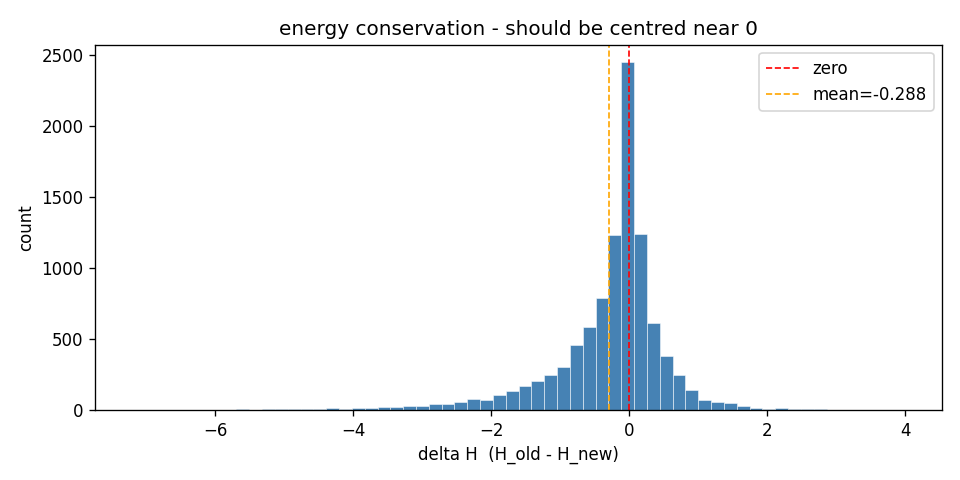
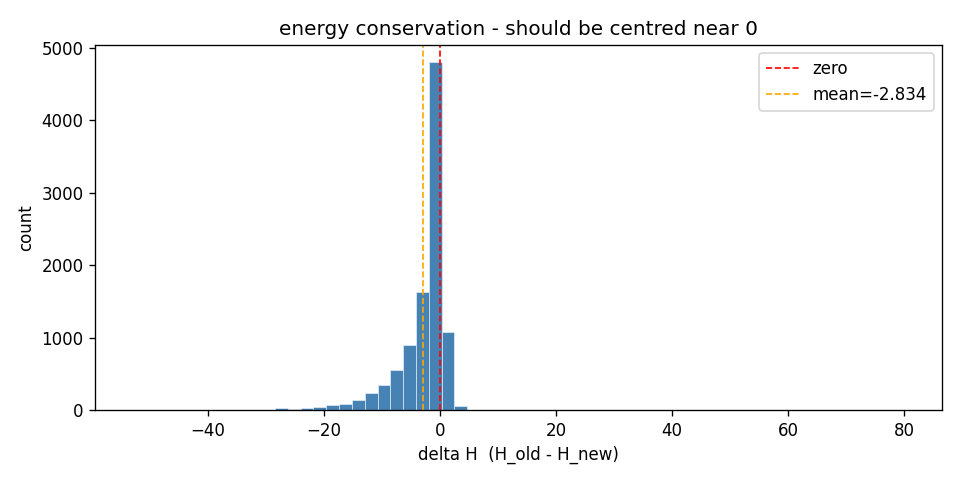
implemented rul prediction - works but it's doo doo

diff --git a/02_preprocessing.py b/02_preprocessing.py
@@ -2,68 +2,79 @@ import numpy as np
 import matplotlib.pyplot as plt
 import os
 
-#sanity check: load the data, filter to one engine, normalise s11, and plot before/after normalisation, just for s11 on engine 1 for now.
-
-data_path = "CMAPSSData/train_FD001.txt"
-
 # change this to switch runs - all outputs go into results/{run_id}/
-run_id   = "E1_S11"
-out_dir  = f"results/{run_id}/figures"
-samp_dir = f"results/{run_id}/samples"
+run_id    = "E10_S11"
+engine_id = 10
+out_dir   = f"results/{run_id}/figures"
+samp_dir  = f"results/{run_id}/samples"
 os.makedirs(out_dir,  exist_ok=True)
 os.makedirs(samp_dir, exist_ok=True)
 
 # col layout: unit(0), cycle(1), os1-3(2-4), s1(5), s2(6) ... s11(15) ... s21(25)
-data = np.loadtxt(data_path)
+train_data = np.loadtxt("CMAPSSData/train_FD001.txt")
+test_data  = np.loadtxt("CMAPSSData/test_FD001.txt")
 
-# --- filter to one engine ---
-# starting with engine 1, sampler only handles one at a time for now
-engine_id = 1
-engine_data = data[data[:, 0] == engine_id]
+# --- fit the normalisation scale on training data (all engines) ---
+# we use global train min/max so the failure threshold (s11=1.0) means the same thing
+# across train and test. if we used per-engine min/max on the test set we wouldnt know
+# where failure actually is since the test trajectories are truncated before failure
+s11_col = 15
+s11_train_all = train_data[:, s11_col]
+s11_min = s11_train_all.min()
+s11_max = s11_train_all.max()
+print(f"s11 normalisation range (from training): min={s11_min:.3f}  max={s11_max:.3f}")
 
-cycles_raw = engine_data[:, 1]    # cycle numbers 1..N
-s11_raw    = engine_data[:, 15]  # s11 is our health proxy (highest corr with cycle)
+# --- filter test set to one engine (truncated before failure - we predict the remaining RUL) ---
+test_engine = test_data[test_data[:, 0] == engine_id]
+cycles_raw  = test_engine[:, 1]
+s11_raw     = test_engine[:, s11_col]
+print(f"engine {engine_id} test trajectory: {len(cycles_raw)} cycles (truncated before failure)")
+print(f"s11 raw — min: {s11_raw.min():.3f}  max: {s11_raw.max():.3f}")
 
-# normalise cycles to [0,1] too - otherwise grad_beta explodes in the sampler
-# (it sums cycle * residual across all steps, cycles up to 192 makes gradients huge)
-cycles = (cycles_raw - cycles_raw.min()) / (cycles_raw.max() - cycles_raw.min())
+# normalise cycles using global max across all training engines
+# this keeps beta on a consistent scale across engines — short and long trajectories
+# comparable, and the prior on beta means the same thing regardless of engine length
+global_max_cycle = train_data[:, 1].max()
+cycles = cycles_raw / global_max_cycle
 
-print(f"engine {engine_id}: {len(cycles_raw)} cycles")
-print(f"s11 raw  — min: {s11_raw.min():.3f}  max: {s11_raw.max():.3f}  mean: {s11_raw.mean():.3f}")
-
-# --- normalise s11 to [0, 1] and flip it ---
-# s11 increases with degradation, but our health model needs h(t) to start near 0 and rise to 1
-# so we just do standard min-max - low s11 (healthy) maps to 0, high s11 (failing) maps to 1
-# RUL formula becomes: t_RUL = (1 - alpha) / beta
-s11_min = s11_raw.min()
-s11_max = s11_raw.max()
+# normalise s11 using the TRAINING min/max
+# so 0 = healthy (global min), 1 = failure threshold (global max from training)
 s11_norm = (s11_raw - s11_min) / (s11_max - s11_min)
 
-print(f"s11 norm — min: {s11_norm.min():.3f}  max: {s11_norm.max():.3f}  mean: {s11_norm.mean():.3f}")
+print(f"s11 norm — min: {s11_norm.min():.3f}  max: {s11_norm.max():.3f}")
+print(f"  (values < 1.0 since engine hasnt failed yet in the test trajectory)")
 
-# --- sanity plot: raw vs normalised ---
+# sanity plot: raw vs normalised
 fig, axes = plt.subplots(1, 2, figsize=(12, 4))
 
-axes[0].plot(cycles, s11_raw)
-axes[0].set_title("s11 raw")
-axes[0].set_xlabel("normalised cycle")
+axes[0].plot(cycles_raw, s11_raw)
+axes[0].set_title("s11 raw (test trajectory)")
+axes[0].set_xlabel("cycle")
 axes[0].set_ylabel("sensor value")
 
-axes[1].plot(cycles, s11_norm)
+axes[1].plot(cycles_raw, s11_norm)
+axes[1].axhline(1.0, color="red", linewidth=0.8, linestyle="--", label="failure threshold")
 axes[1].set_title("s11 normalised [0=healthy, 1=failure]")
-axes[1].set_xlabel("normalised cycle")
+axes[1].set_xlabel("cycle")
 axes[1].set_ylabel("sensor value")
+axes[1].legend(fontsize=8)
 
-fig.suptitle(f"engine {engine_id} - s11 before and after normalisation")
+fig.suptitle(f"engine {engine_id} test trajectory - s11 (truncated before failure)")
 plt.tight_layout()
 out = f"{out_dir}/preprocessing_s11_engine{engine_id}.png"
-
 plt.savefig(out, dpi=120)
 plt.close()
 print(f"saved {out}")
 
-# --- save clean arrays ---
-# these are what 03_hmc_sampler.py will load
+# save clean arrays for the sampler
 np.save(f"{samp_dir}/cycles_engine{engine_id}.npy", cycles)
-np.save(f"{samp_dir}/y_obs_engine{engine_id}.npy", s11_norm)
+np.save(f"{samp_dir}/y_obs_engine{engine_id}.npy",  s11_norm)
+
+# save denormalisation info for 05
+# to go from normalised RUL back to real cycles: rul_real = (t_failure - t_last) * global_max_cycle
+cycle_last_raw = cycles_raw.max()
+np.save(f"{samp_dir}/cycle_last_raw_engine{engine_id}.npy", np.array([cycle_last_raw]))
+np.save(f"{samp_dir}/global_max_cycle.npy", np.array([global_max_cycle]))
+
 print(f"saved cycles and y_obs arrays to {samp_dir}")
+print(f"cycle_last_raw={cycle_last_raw:.0f}  global_max_cycle={global_max_cycle:.0f}")

diff --git a/05_rul_prediction.py b/05_rul_prediction.py
@@ -1,0 +1,75 @@
+import numpy as np
+import matplotlib.pyplot as plt
+import os
+
+# change this to switch runs
+run_id    = "E20_S11"
+engine_id = 20
+samp_dir  = f"results/{run_id}/samples"
+fig_dir   = f"results/{run_id}/figures"
+os.makedirs(fig_dir, exist_ok=True)
+
+samples        = np.load(f"{samp_dir}/hmc_samples_engine{engine_id}.npy")
+global_max_cycle = np.load(f"{samp_dir}/global_max_cycle.npy")[0]
+cycle_last_raw = np.load(f"{samp_dir}/cycle_last_raw_engine{engine_id}.npy")[0]
+
+burn_in  = 1000
+post     = samples[burn_in:]
+alpha_s  = post[:, 0]
+beta_s   = post[:, 1]
+
+t_last = cycle_last_raw / global_max_cycle   # last observed cycle in normalised global coords
+
+print(f"posterior samples (post burn-in): {len(alpha_s)}")
+print(f"cycle_last_raw={cycle_last_raw:.0f}  global_max_cycle={global_max_cycle:.0f}  t_last={t_last:.4f}")
+
+# compute RUL for every posterior sample
+# h(t) = alpha + beta*t, failure when h(t) = failure_threshold
+# t_failure = (threshold - alpha) / beta  in global normalised coords
+# RUL = (t_failure - t_last) * global_max_cycle
+failure_threshold = 0.792  # mean s11_norm at failure across 100 training engines
+rul_norm = (failure_threshold - alpha_s) / beta_s
+rul_real = (rul_norm - t_last) * global_max_cycle
+
+# filter out negative RUL (samples where beta <= 0)
+valid    = rul_real > 0
+print(f"valid RUL samples: {valid.sum()} / {len(rul_real)}")
+rul_real = rul_real[valid]
+
+# true RUL from the label file
+true_rul_all = np.loadtxt("CMAPSSData/RUL_FD001.txt")
+true_rul     = true_rul_all[engine_id - 1]
+
+mean_rul  = rul_real.mean()
+ci_low    = np.percentile(rul_real, 5)
+ci_high   = np.percentile(rul_real, 95)
+
+print(f"\nRUL prediction for engine {engine_id}:")
+print(f"  mean RUL:  {mean_rul:.1f} cycles")
+print(f"  90% CI:    [{ci_low:.1f}, {ci_high:.1f}] cycles")
+print(f"  true RUL:  {true_rul} cycles")
+print(f"  error:     {abs(mean_rul - true_rul):.1f} cycles")
+
+# plot RUL distribution
+fig, ax = plt.subplots(figsize=(10, 5))
+
+ax.hist(rul_real, bins=80, density=True, color="steelblue",
+        edgecolor="white", linewidth=0.3, label="RUL distribution")
+ax.axvline(mean_rul, color="red",    linewidth=1.5, linestyle="--",
+           label=f"mean = {mean_rul:.1f}")
+ax.axvline(ci_low,   color="orange", linewidth=1.2, linestyle=":",
+           label=f"90% CI = [{ci_low:.1f}, {ci_high:.1f}]")
+ax.axvline(ci_high,  color="orange", linewidth=1.2, linestyle=":")
+ax.axvline(true_rul, color="green",  linewidth=1.5, linestyle="-",
+           label=f"true RUL = {true_rul}")
+
+ax.set_xlabel("remaining useful life (cycles)")
+ax.set_ylabel("density")
+ax.set_title(f"engine {engine_id} RUL distribution")
+ax.legend(fontsize=9)
+
+plt.tight_layout()
+out = f"{fig_dir}/rul_distribution_engine{engine_id}.png"
+plt.savefig(out, dpi=120)
+plt.close()
+print(f"saved {out}")

diff --git a/03_hmc_sampler.py b/03_hmc_sampler.py
@@ -2,25 +2,26 @@ import numpy as np
 import os
 
 # change this to switch runs - must match what 02_preprocessing.py used
-run_id   = "E1_S11"
-samp_dir = f"results/{run_id}/samples"
+run_id    = "E10_S11"
+engine_id = 10
+samp_dir  = f"results/{run_id}/samples"
 
-cycles = np.load(f"{samp_dir}/cycles_engine1.npy")
-y_obs  = np.load(f"{samp_dir}/y_obs_engine1.npy")
+cycles = np.load(f"{samp_dir}/cycles_engine{engine_id}.npy")
+y_obs  = np.load(f"{samp_dir}/y_obs_engine{engine_id}.npy")
 
 #  priors
 # these are on the normalised scale (y_obs is in [0,1], mean ~0.37)
 # alpha: where s11 starts. mean of y_obs is ~0.37 so prior centres there
 # beta: how fast s11 changes per cycle. s11 increases with degradation so beta is positive
 # sigma: sensor noise on the normalised scale
-mu_alpha    =  0.1    # engine starts near 0 on normalised scale (fresh = low s11)
-sigma_alpha =  0.2
-mu_beta     =  0.6    # s11 rises ~0.6 units over normalised cycle range
-sigma_beta  =  0.3
+mu_alpha    =  0.21   # mean OLS intercept across 100 training engines in global cycle coords
+sigma_alpha =  0.15   # std is 0.10, keep slightly wider
+mu_beta     =  0.73   # mean OLS beta across 100 training engines in global cycle coords
+sigma_beta  =  0.25   # std is 0.19, slightly wider to allow variation
 sigma_noise =  0.15   # sensor noise on normalised scale
 
 # hmc hyperparameters
-epsilon  = 0.014   # tuned to hit ~75% acceptance rate
+epsilon  = 0.015   # 93% acceptance on e20 but delta_H near 0, stable
 L        = 20      # leapfrog steps per iteration
 n_samples = 10000
 burn_in   = 1000
@@ -137,6 +138,6 @@ print(f"beta  — mean: {beta_samples.mean():.4f}  std: {beta_samples.std():.4f}
 print(f"delta_H — mean: {delta_H_vals.mean():.4f}  (should be near 0)")
 
 os.makedirs(samp_dir, exist_ok=True)
-np.save(f"{samp_dir}/hmc_samples_engine1.npy", samples)
-np.save(f"{samp_dir}/delta_H_engine1.npy", delta_H_vals)
+np.save(f"{samp_dir}/hmc_samples_engine{engine_id}.npy", samples)
+np.save(f"{samp_dir}/delta_H_engine{engine_id}.npy", delta_H_vals)
 print(f"samples saved to {samp_dir}")

diff --git a/04_diagnostics.py b/04_diagnostics.py
@@ -3,15 +3,16 @@ import matplotlib.pyplot as plt
 import os
 
 # change this to switch runs - must match the sampler run
-run_id   = "E1_S11"
+run_id    = "E20_S11"
+engine_id = 20
 fig_dir  = f"results/{run_id}/figures"
 samp_dir = f"results/{run_id}/samples"
 os.makedirs(fig_dir, exist_ok=True)
 
-samples   = np.load(f"{samp_dir}/hmc_samples_engine1.npy")
-delta_H   = np.load(f"{samp_dir}/delta_H_engine1.npy")
+samples   = np.load(f"{samp_dir}/hmc_samples_engine{engine_id}.npy")
+delta_H   = np.load(f"{samp_dir}/delta_H_engine{engine_id}.npy")
 
-burn_in   = 500
+burn_in   = 1000
 post      = samples[burn_in:]   # discard burn-in before checking anything
 alpha_s   = post[:, 0]
 beta_s    = post[:, 1]
